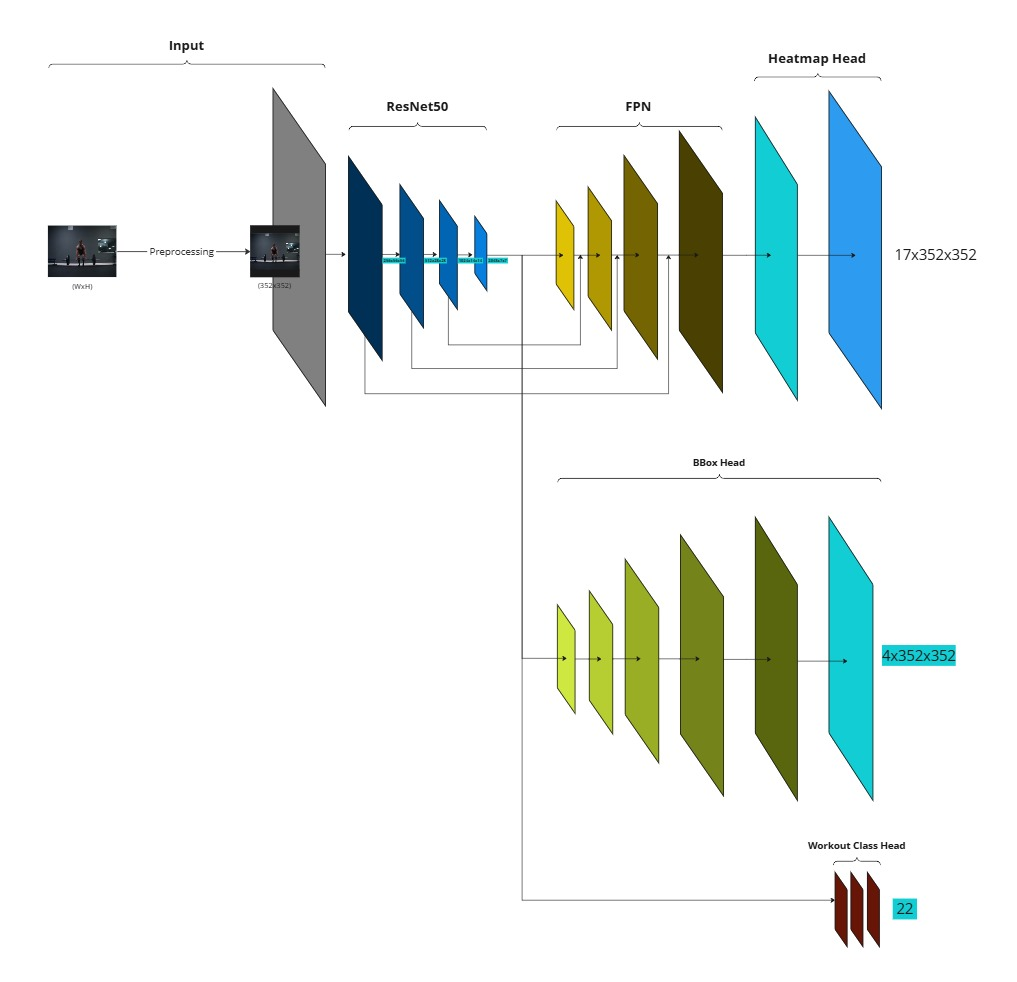
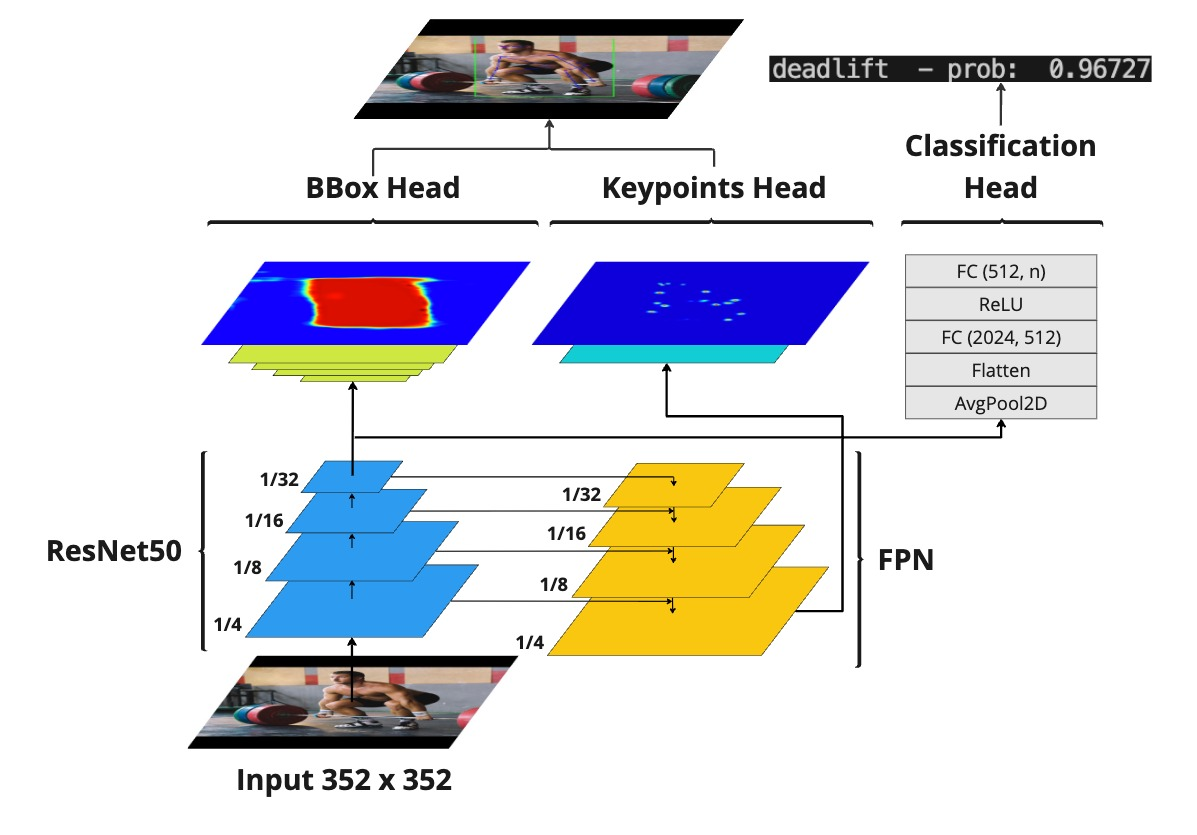
refactor README and requirements

diff --git a/scripts/run_inference.py b/scripts/run_inference.py
@@ -11,6 +11,9 @@ import torch
 from src.models.heatmap_fpn_v3 import heatmap_fpn
 from src.utils.heatmaps import extract_keypoints_with_confidence, extract_bbox_from_heatmaps
 
+checkpoint_path = 'model_epoch_130.pth'
+classfication_mapping = 'heatmap_fpn_v3.json'
+
 def denormalize_image(img_tensor, mean=[0.485, 0.456, 0.406], std=[0.229, 0.224, 0.225]):
     """
     img_tensor: Tensor (C x H x W) normalized image
@@ -25,9 +28,8 @@ def denormalize_image(img_tensor, mean=[0.485, 0.456, 0.406], std=[0.229, 0.224,
 
 # Initialize model and load checkpoint
 model = heatmap_fpn(num_classes=20, num_keypoints=17, backbone='resnet50') # Model config
-device = torch.device('cuda' if torch.cda.is_available() else 'cpu')
+device = torch.device('cuda' if torch.cuda.is_available() else 'cpu')
 model.to(device)
-checkpoint_path = 'checkpoints/model_epoch_70.pth' # Model checkpoint
 checkpoint = torch.load(checkpoint_path, map_location=device)
 model.load_state_dict(checkpoint)
 model.eval()
@@ -91,7 +93,7 @@ for bbox in bbox_pred:
 filtered_keypoints = []
 for i, point in enumerate(keypoints_pred[0]):
     x, y, confidence = point
-    if confidence >= 0.5:  # Only draw visible keypoints
+    if confidence >= 0.4:  # Only draw visible keypoints
         cv2.circle(image_preprocessed, (int(x * target_w), int(y * target_h)), 1, (1, 0, 0), -1)  # Red dots for keypoints
         filtered_keypoints.append((i, x, y))  # Store valid keypoints for skeleton drawing
 
@@ -117,8 +119,8 @@ for pair in SKELETON:
         cv2.line(image_preprocessed, (int(x1 * target_w), int(y1 * target_h)), 
                      (int(x2 * target_w), int(y2 * target_h)), (0, 0, 255), 1)  # Blue lines
 
-
-with open('resnet50_2025-03-16_18-24-22.json', 'r') as f:
+# idx to class name
+with open(classfication_mapping, 'r') as f:
     idx_to_class_name = json.load(f)
 
 # Display workout class and probability

diff --git a/scripts/real_time_app.py b/scripts/real_time_app.py
@@ -10,6 +10,9 @@ import torch
 from src.models.heatmap_fpn_v3 import heatmap_fpn
 from src.utils.heatmaps import extract_keypoints_with_confidence, extract_bbox_from_heatmaps
 
+checkpoint_path = 'model_epoch_130.pth'
+classfication_mapping = 'heatmap_fpn_v3.json'
+
 # Kalmar fiter --> Get smoothed keypoints
 class KalmanFilterKeypoint:
     def __init__(self, process_noise=1e-2, measurement_noise=1e-1):
@@ -45,9 +48,9 @@ class KalmanFilterKeypoint:
 
 # Initialize model and load checkpoint
 model = heatmap_fpn(num_classes=20, num_keypoints=17, backbone='resnet50')
-device = torch.device('cuda' if torch.cuda.is_available() else 'cpu')
+device = torch.device('mps' if torch.cuda.is_available() else 'cpu')
 model.to(device)
-state_dict = torch.load('model_epoch_110.pth', map_location=device, weights_only=True)
+state_dict = torch.load(checkpoint_path, map_location=device, weights_only=True)
 model.load_state_dict(state_dict)
 model.eval()
 
@@ -127,7 +130,7 @@ cv2.namedWindow('Live Prediction', cv2.WINDOW_NORMAL)
 cv2.resizeWindow('Live Prediction', size_x, size_y)
 
 # Load idx_to_class_name during inference
-with open('resnet50_2025-03-16_18-24-22.json', 'r') as f:
+with open(classfication_mapping, 'r') as f:
     idx_to_class_name = json.load(f)
 
 while cap.isOpened():

diff --git a/README.md b/README.md
@@ -82,13 +82,14 @@ AIDL-2025-PROJECT/
 ```
 
 ## Project Configuration
-#### Training
+### Training
 In order to train or run an inference of the model you will need to follow the next steps:
 1. Clone the repo to your local or cloud machine
 2. Download the dataset and extract it in the folder workout_dataset from the following link: [MEGA](https://mega.nz/folder/cIJEFITB#LCAwIp3KXHMGSwKg847oPw).
     - The path structure should be `workout_dataset/new_images` and `workout_dataset/new_labels`
 3. Install the venv or conda enviroment and install the libraries
-    - `pip install -r requirements.txt` 
+    - `pip install -r requirements_cu118.txt`  or
+    - `pip install -r requirements_mps.txt` 
 4. You should be ready to train the model or run an inference.
 5. If it is necessary, add the project root to `PYTHONPATH`
     - `export PYTHONPATH={YOUR_PATH}/aidl-2025-project`
@@ -97,21 +98,22 @@ In order to train or run an inference of the model you will need to follow the n
 **Optional:**
 In the `run_training.py` file you can modify some hyperparameters.
 
-#### Inference
-The folder in [MEGA](https://mega.nz/folder/cIJEFITB#LCAwIp3KXHMGSwKg847oPw) also contains pretrained checkpoints of the model in the folder `pretrained` that can by used for inference. You can use the scripts `run_inference.py` for a single image or try the `real_time_app.py` using the webcam.
+### Inference
+The folder in [MEGA](https://mega.nz/folder/cIJEFITB#LCAwIp3KXHMGSwKg847oPw) also contains pretrained checkpoints of the model in the folder `pretrained` that can by used for inference. You can use the scripts `run_inference.py` for a single image or try the `real_time_app.py` using the webcam. Remember to download also the `.json` needed for the workout classfication mapping.
 
 ## Dataset
 Our dataset is primarily based on the [Workout Exercises Kaggle Dataset](https://www.kaggle.com/datasets/hasyimabdillah/workoutexercises-images/data), which provides workout images along with exercise class labels. However, the original dataset lacks keypoint and bounding box annotations, which are crucial for our task.
-#### Keypoint and Bounding Box Annotations
+
+### Keypoint and Bounding Box Annotations
 To generate keypoint and bounding box (bbox) labels, we used pseudo ground truth annotations predicted by the `YOLOv11x` model [[4]](#4). After multiple trials, we found it necessary to apply a data cleaning step before generating annotations. Specifically, we removed or masked additional people present in the background to focus solely on the person performing the workout. You can hide the person by using the following script: `generate_images_with_hidden_person.py`
 You can reproduce the annotation generation process using the `generate_keypoints_confidence.py` script located in the `scripts` folder. This script runs the  `YOLO` model over the dataset and outputs keypoints and bounding box annotations with confidence scores.
 
-#### Dataset Augmentation
+### Dataset Augmentation
 We further augmented the dataset by extracting additional workout images from YouTube videos. This was done in two steps:
 1. **Video Downloading:** Using `download_video.py` to download workout videos from YouTube.
 2. **Frame Extraction:** Using `video_to_image.py` to extract frames from the videos for dataset expansion.
 
-#### Dataset Cleaning
+### Dataset Cleaning
 After expanding the dataset, we decided to remove two workout classes:
 - `incline bench press`
 - `decline bench press`
@@ -120,7 +122,7 @@ These classes were excluded due to their high similarity to the standard `bench 
 
 As a result of these modifications—pseudo-labeling, dataset augmentation, and class removal—the final dataset differs significantly from the original Kaggle version.
 
-#### Dataset Loading and Preprocessing
+### Dataset Loading and Preprocessing
 
 The dataset loading and preprocessing pipeline is implemented in the `src/data/` module, primarily across three key files: `load_workout_data.py`, `dataloader.py`, and `dataset.py`.
 
@@ -138,11 +140,9 @@ This data pipeline ensures that both the input images and their corresponding la
 During the project, we trained several models to improve keypoint regression performance. Our approach evolved over time, starting with a **baseline** model and progressing through more sophisticated architectures aimed at better capturing spatial and multi-scale information.
 
 The baseline model used a ResNet-50 backbone[[7]](#7) followed by a fully connected (FC) layer for direct keypoint regression. Unfortunately we haven't achieve good results with this simple head architecture.
-![image info](resources/baseline.jpg)
 
 To improve performance, we developed the **baseline_heatmap model**. This architecture added several deconvolution layers after the final ResNet-50 layer[[7]](#7) and adopted a heatmap-based regression strategy instead of direct coordinate prediction. The heatmap representation significantly improved the model’s ability to localize keypoints, although achieving consistently accurate detection across all keypoints remained challenging.
 We used heatmap-based keypoint prediction inspired by previous work [[1]](#1), [[2]](#2).
-![image info](resources/baseline_heatmap.jpg)
 
 Further refinement came with the **heatmap_fpn** family of models. These architectures incorporated a Feature Pyramid Network (FPN) to improved multi-scale feature extraction[[3]](#3)—essential for tasks requiring fine-grained localization at different resolutions.
 We iterated through several versions of this model:
@@ -150,62 +150,118 @@ We iterated through several versions of this model:
 - **heatmap_fpn:** Introduced an FPN to enhance keypoint detection, but only applied the heatmap-based approach to keypoints.
 - **heatmap_fpn_v2:** Extended the heatmap-based strategy to bounding box (bbox) prediction, improving object localization accuracy.
 - **heatmap_fpn_v3:** Replaced `ConvTranspose` layers with `Upsample` + `Conv2d` blocks [[4]](#4), reducing model complexity and speeding up training. Additionally, v3 further reduced the model’s capacity while maintaining performance, leading to faster convergence.
-![image info](resources/heatmap_fpn_v3.jpg)
 
-#### heatmap_fpn_v3 Architecture
-**Backbone and Feature Extraction:**
+### heatmap_fpn_v3 Architecture
+![image info](resources/heatmap_fpn_v3.jpg)
+#### Backbone and Feature Extraction:
 The architecture begins with a pretrained ResNet-50 backbone[[7]](#7), using feature maps up to and including the `layer4` block. These multi-scale feature maps serve as the input for subsequent processing. The backbone parameters are frozen excepts the parameters from the `layer4` block.
 
-**Featured Pyramid Network (FPN)**
+#### Featured Pyramid Network (FPN)
 The FPN plays a critical role in keypoint prediction by combining feature maps from different stages of the backbone. This design allows the model to leverage high-resolution features enriched with deep semantic information, which is crucial for precise localization.
 
-**Keypoints Head**
+####  Keypoints Head
 After the FPN, the keypoint prediction head consists of two upsampling blocks:
 1. **Block 1:** `Upsample` → `Conv2d` → `BatchNorm2d` → `ReLU`
-2. **Block 2:** `Upsample` → `Conv2d`
+2. **Block 2:** `Upsample` → `Conv2d` → `17x352x352`
+
 These blocks progressively upsample the feature maps back to the original input resolution (352x352), enabling the model to produce dense, high-resolution heatmaps for keypoint localization.
 
-**Bounding Box Head**
+#### Bounding Box Head
 The bbox head in v3 consists of:
-1. **Five** consecutive blocks: `Upsample` → `Conv2d` → `BatchNorm2d` → `ReLU`
-2. A **final** `Conv2d` layer for output generation.
+1. **Block 1:** `Upsample` → `Conv2d` → `BatchNorm2d` → `ReLU`
+2. **Block 2:** `Upsample` → `Conv2d` → `BatchNorm2d` → `ReLU`
+3. **Block 3:** `Upsample` → `Conv2d` → `BatchNorm2d` → `ReLU`
+4. **Block 4:** `Upsample` → `Conv2d` → `BatchNorm2d` → `ReLU`
+5. **Block 5:** `Upsample` → `Conv2d` → `BatchNorm2d` → `ReLU`
+6. **Block 6** `Conv2d` → `4x352x352`
+
 This structure upsamples the final ResNet-50 feature map back to the original input size, producing a heatmap-based bounding box prediction.
-##### Workout Label Head
-The Workout Label Head predicts the workout type from the global features of the ResNet-50 backbone. It consists of:
-1. Block 1: AdaptiveAvgPool2d(1) → Flatten
-2. Block 2: Linear → ReLU
-3. Block 3: Linear → num_classes
+
+#### Workout Classification Head
+The Workout Classification Head predicts the workout type from the global features of the ResNet-50 backbone. It consists of:
+1. **Block 1:** `AdaptiveAvgPool2d(1)` → `Flatten`
+2. **Block 2:** `Linear` → `ReLU`
+3. **Block 3:** `Linear` → `num_classes`
+
 This head enables the model to classify the workout in parallel with keypoint and bounding box predictions.
 
 ## Exercise Counter
 - Info about the exercise counter
 
-## Training
-- Info about the training:
+## Model Training
+
+### Hyperparameters
+- `resize_to`: Resize the input images to this size. The options are `[224x224]`, `[256x256]`, `[288x288]`, `[320x320]`, and `[352x352]`.
+- `batch_size`: The number of images in each batch.
+- `num_epochs`: The number of epochs for which the model will be trained.
+- `lr`: Learning rate used for training the model. It's set as a list for different parts of the model. You can experiment with different values like `[1e-4, 1e-3, 2e-4, 1e-3]`.
+- `loss_weights`: These weights help in balancing the losses from different tasks (bounding boxes, keypoints, and workout label classification). Default values are `[0.002, 0.95, 0.055]`.
+- `autocast_enabled`: Set to True if you want to use mixed precision training.
+
+Info about the training:
     - LR rate
     - Backbone freezing and workout freezing
     - Loss weight
     - Losses
     - Framework
 
-## Evaluation Metrics and Methodology
-We evaluated our model across three tasks using the following metrics:
+### Losses
+During training, the `heatmap_fpn_v3` model optimizes a combined loss function that addresses three key tasks: bounding box regression, keypoint heatmap regression, and workout label classification. The overall loss is a weighted sum of the individual loss components.
+$$
+\text{Total Loss} = \lambda_{bbox} \cdot \text{BBox Loss} + \lambda_{keypoints} \cdot \text{Keypoints Loss} + \lambda_{classification} \cdot \text{Classification Loss}
+$$
+Where:
+- $\lambda_{bbox}$ is the weight for the bounding box loss.
+- $\lambda_{keypoints}$ is the weight for the keypoints loss.
+- $\lambda_{classification}$ is the weight for the classification loss.
 
-- **Keypoint Detection**  
-  - Percentage of Correct Keypoints (PCKh @ 0.5)  
-  - Mean Squared Error (MSE) on keypoint heatmaps.
+#### Bounding Box Loss
+The bounding box loss is calculated using the Mean Squared Error (MSE) between the predicted bounding box heatmaps and the ground truth bounding box heatmaps
+$$
+\text{BBox Loss} = \text{MSE}(\text{Predicted BBox Heatmaps}, \text{Ground Truth BBox Heatmaps})
+$$
 
-- **Bounding Box Detection**  
-  - Intersection over Union (IoU)  
-  - Mean Average Precision (mAP).
+#### Keypoints Loss
+The keypoints loss is calculated using the Mean Squared Error (MSE) between the predicted keypoint heatmaps and the ground truth keypoint heatmaps, with an important addition: a confidence mask.
+$$
+\text{Keypoints Loss} = \frac{\sum (\text{MSE}(\text{Predicted Keypoint Heatmaps}, \text{Ground Truth Keypoint Heatmaps}) \cdot \text{Confidence Mask})}{\sum \text{Confidence Mask} + \epsilon}
+$$
 
-- **Workout Classification**  
-  - Top-1 Accuracy  
-  - Confusion Matrix.
+#### Classification Loss
+The classification loss is calculated using the Cross-Entropy Loss between the predicted workout class probabilities and the ground truth workout class labels.
+$$
+\text{Classification Loss} = \text{CrossEntropyLoss}(\text{Predicted Class Probabilities}, \text{Ground Truth Class Labels})
+$$
 
-- **Exercise Counter**  
-  - Rep counting accuracy  
-  - False positives and false negatives per session.
+### Hardware
+
+#### Experiments:
+Initial experiments and model development were conducted on a local machine equipped with an `NVIDIA RTX 2070`, featuring an `Intel i7 10th generation` processor.
+
+#### Final Training:
+For the final, more extensive training runs, a cloud-based machine was utilized.
+This machine was provisioned with an `NVIDIA H100 PCIe GPU`, `24vCPUs`, and `188 GB RAM`.
+The transition to the H100 GPU significantly accelerated the training process, enabling the completion of more epochs and in a shorter time.
+![image info](resources/cloud.png)
+![image info](resources/cloud2.png)
+
+### Monitoring
+
+#### Metrics:
+During training, several metrics are monitored to track the model's performance:
+- **Training Loss:** The combined loss value calculated on the training batches.
+- **Validation Loss:** The combined loss value calculated on the validation batches.
+- **Keypoint PCK** (Percentage of Correct Keypoints): Calculated at thresholds of `0.01`, `0.05`, and `0.1`.
+- **Keypoint MPJPE** (Mean Per Joint Position Error): Average error in keypoint localization.
+- **Bounding Box IoU** (Intersection over Union): Measure of overlap between predicted and ground truth bounding boxes.
+- **Classification Accuracy:** Accuracy of workout classification.
+- **Classification Precision and Recall:** Precision and recall per class.
+
+#### Tools:
+Validation metrics are calculated at the end of each training epoch, providing a comprehensive view of the model's performance on the validation set.
+
+#### Validation Frequency:
+The training process utilizes `TensorBoard` to visualize and track these metrics over epochs. This allows for real-time monitoring of training progress and identification of potential issues.
 
 ## Results
 
@@ -224,21 +280,18 @@ In the following table, it is demonstrated that the `fpn_v3` architecture signif
 | baseline_heatmap    | 11.59  &  0.29                  | 0.32         |
 | fpn_v3              | 8.798  &  0.42                  | 0.85         |
 
-**Bounding Box Results**
-
+#### Bounding Box Results
 After 15 epochs, the IoU (Intersection over Union) score for the `fpn_v3` model exceeds **0.85**, while the baseline and baseline_heatmap models remain around **0.35**.
 This significant improvement comes from replacing the fully connected (FC) head with a heatmap-based head.
 ![image info](resources/models_comparison/bbox_iou_val.png)
 
-**Workout Classification Results**
-
+#### Workout Classification Results
 The classification head remains identical across all architectures. As a result, there is no significant difference in classification metrics between models.
 ![image info](resources/models_comparison/classification_accuracy_val.png)
 ![image info](resources/models_comparison/classification_precision_val.png)
 ![image info](resources/models_comparison/classification_recall_val.png)
 
-**Keypoints Results**
-
+#### Keypoints Results
 The **Mean Per Joint Position Error (MPJPE)** is substantially lower in the `fpn_v3` model compared to both the `baseline_heatmap` and the `baseline`. Additionally, the **PCK@0.01** (Percentage of Correct Keypoints) metric shows clear improvements for the `fpn_v3` model.
 
 The transition from regression-based outputs to heatmap-based outputs significantly improves performance. Furthermore, integrating the Feature Pyramid Network (FPN) boosts overall accuracy in keypoint estimation.
@@ -255,18 +308,18 @@ Another experiment we conducted involved unfreezing the `layer4` block of the `R
 | unfrozen backbone   | 4.60  &  0.80                   | 0.97         |
 
 
-**Bounding Box Results**
+#### Bounding Box Results
 We observed a substantial improvement in bounding box accuracy. The `IoU@0.8` increased from 0.87 to over 0.95 on the test set. Additionally, the head `Loss` decreased significantly, indicating better convergence and more precise predictions.
 ![image info](resources/frozen_vs_unfrozen_backbone/bbox_iou.jpg)
 ![image info](resources/frozen_vs_unfrozen_backbone/bbox_loss.jpg)
 
-**Keypoints Results**
+#### Keypoints Results
 The keypoints head also demonstrated notable improvements. Both the `MPJPE` and the `Loss` values decreased significantly, while the `PCK@0.01 `metric increased from 0.61 to over 0.8 after 84 epochs.
 ![image info](resources/frozen_vs_unfrozen_backbone/keypoints_mpjpe.jpg)
 ![image info](resources/frozen_vs_unfrozen_backbone/keypoints_loss.jpg)
 ![image info](resources/frozen_vs_unfrozen_backbone/keypoints_pck_001.jpg)
 
-### Training
+### Model Training
     - Losses
     - Accuracy
     - Images from test
@@ -275,8 +328,8 @@ The keypoints head also demonstrated notable improvements. Both the `MPJPE` and 
 
 ## Conclusions
 
-#### Key Achievements
-#### Challenges
+### Key Achievements
+### Challenges
 
 ## Limitations
 - **Dataset Quality**: The pseudo-labels generated by YOLOv11x introduce noise, potentially affecting the keypoint prediction quality.
@@ -284,7 +337,7 @@ The keypoints head also demonstrated notable improvements. Both the `MPJPE` and 
 - **Repetition Counter**: Currently based on simple state machine logic, which may fail in irregular movements or poorly detected keypoints.
 - **Generalization**: The model was primarily trained on workout exercises and may not generalize well to other types of human poses or different environments.
 
-#### Proposals for Improvements
+## Proposals for Improvements
 - **Integrate Self-Attention Mechanisms (Transformers)**
 Recent research, such as ViTPose [[5]](#5), demonstrates that self-attention significantly improves keypoint detection accuracy by capturing long-range dependencies and global context. Incorporating transformer-based architectures or adding self-attention layers to the existing model could enhance both precision and robustness in keypoint localization.
 Unfortunately, due to time constraints, we have not yet explored this architecture in our current work.
